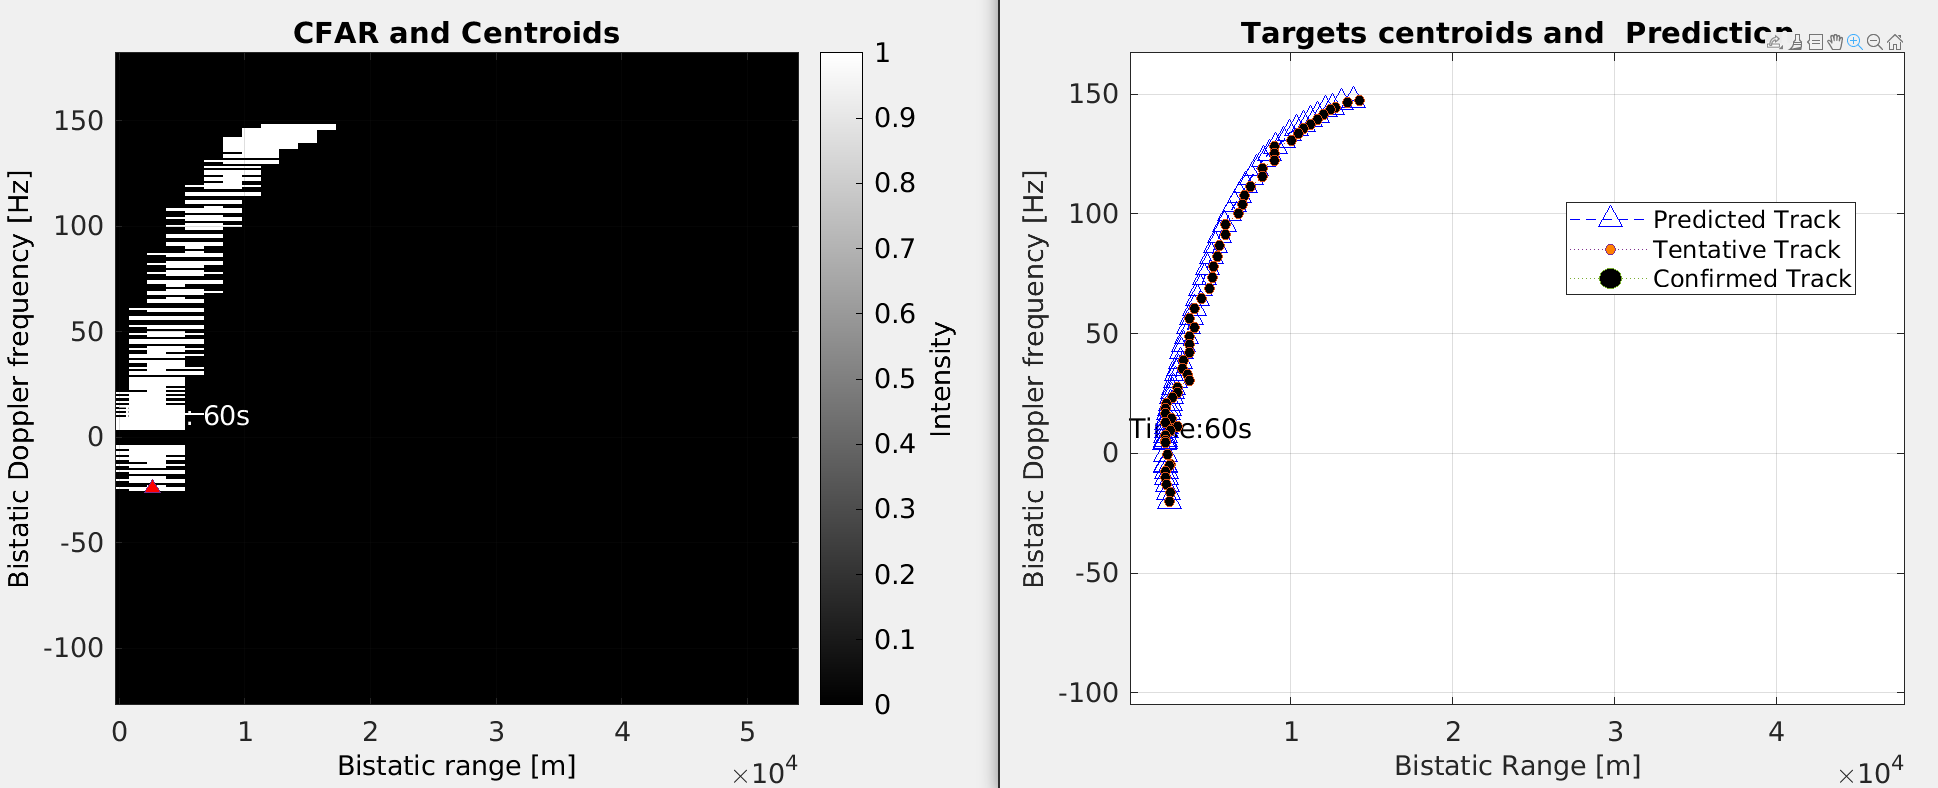
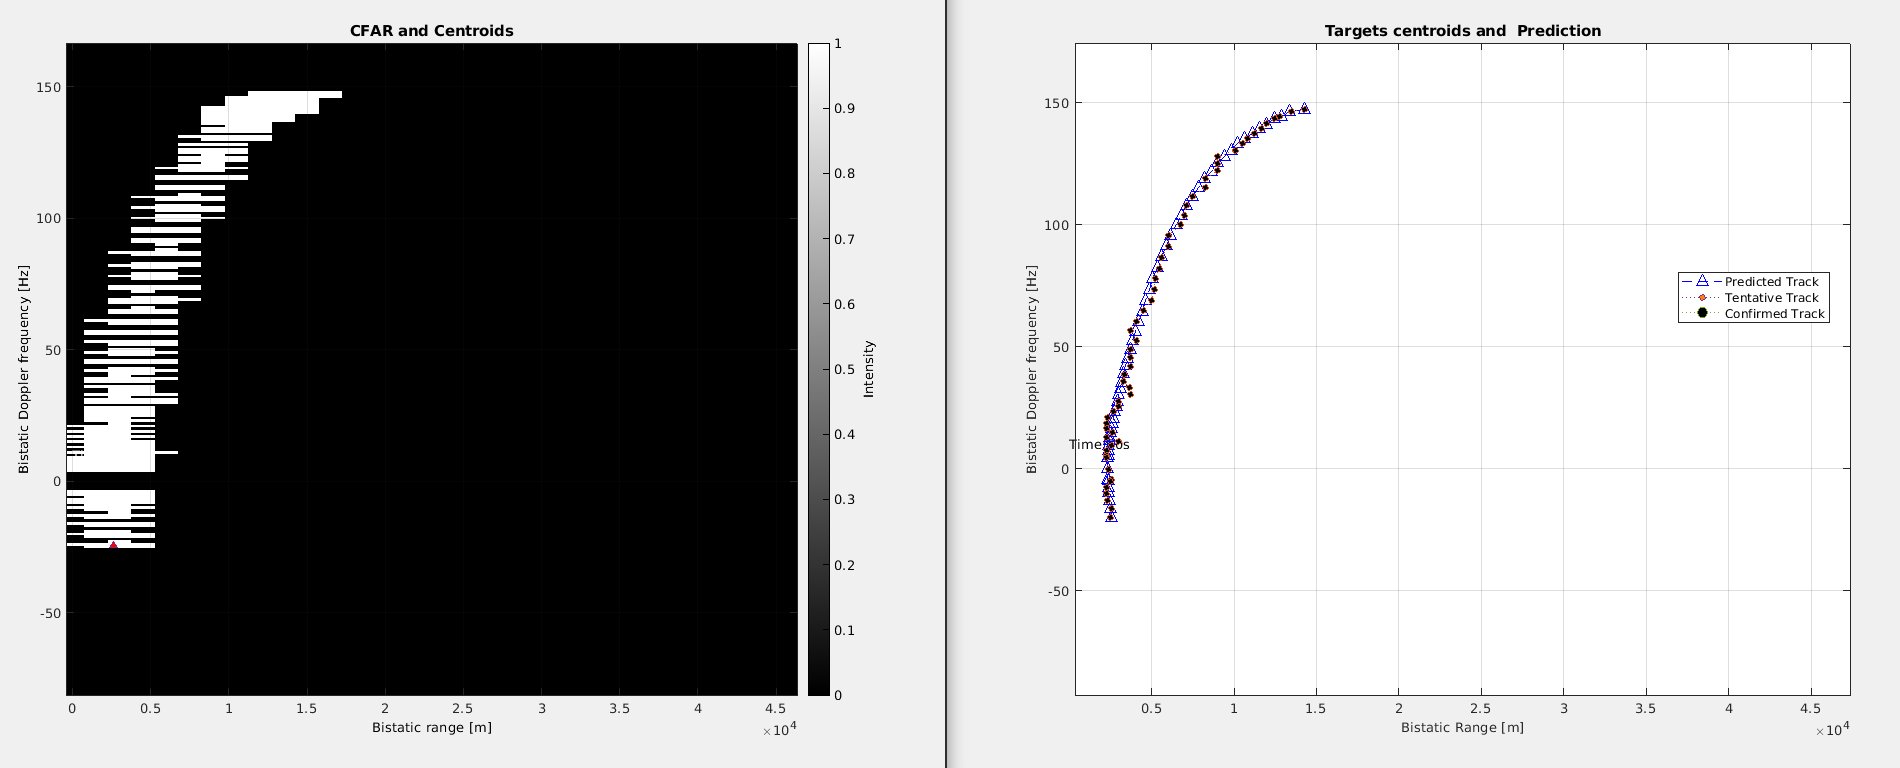
Particle filter

diff --git a/multiTargetTracking/track.m b/multiTargetTracking/track.m
@@ -37,7 +37,7 @@ classdef track
                 case 2
                     disp("Initializing Particle Filter");
 
-                    N=10000;                                 %Number of particles
+                    N=5000;                                 %Number of particles
                     std_acc=10;                              %Standard Deviation of the process noise
                     std_meas=[100,1];                     %Standard Deviation of the measurements in the x and y
 
@@ -46,9 +46,9 @@ classdef track
                 
                 case 3
                     std_acc=1;                 %Standard Deviation of the acceleration in ms^2
-                    std_meas=[1000,1];                  %Standard Deviation of the measurements in the x and y
+                    std_meas=[1000,5];                  %Standard Deviation of the measurements in the x and y
                     max_iterations=100;
-                    tolerance = 0.1;
+                    tolerance = 0.;
                     RGNF_object = RGNF(dt,U(1),U(2),std_acc,std_meas(1),std_meas(2),[x_initial(1);x_initial(2);],max_iterations,tolerance);
                     obj.trackingFilterObject = RGNF_object;
 

diff --git a/TrackingFilter-ParticleFilter/particleFilter.m b/TrackingFilter-ParticleFilter/particleFilter.m
@@ -37,8 +37,8 @@ classdef particleFilter
                     (dt^3)/2,dt^2]*std_acc;
             
 
-            obj.S = [0,0;
-                     0,0];
+            obj.S = [100000,0;
+                     0,200];
 
         end
         
